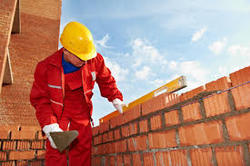
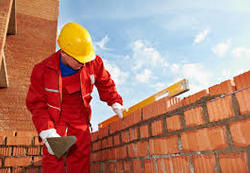
Add Photos to Portifolio with Carrierwave Fill

diff --git a/app/uploaders/avatar_uploader.rb b/app/uploaders/avatar_uploader.rb
@@ -31,15 +31,15 @@ class AvatarUploader < CarrierWave::Uploader::Base
 
   # Create different versions of your uploaded files:
   version :thumb do
-    process :resize_to_limit => [80, 80]
+    process :resize_to_fill => [80, 80]
   end
 
   version :pic do
-    process :resize_to_limit => [250, 173]
+    process :resize_to_fill => [250, 173]
   end
 
   version :great do
-    process :resize_to_limit => [380, 203]
+    process :resize_to_fill => [380, 223]
   end
 
   # Add a white list of extensions which are allowed to be uploaded.
